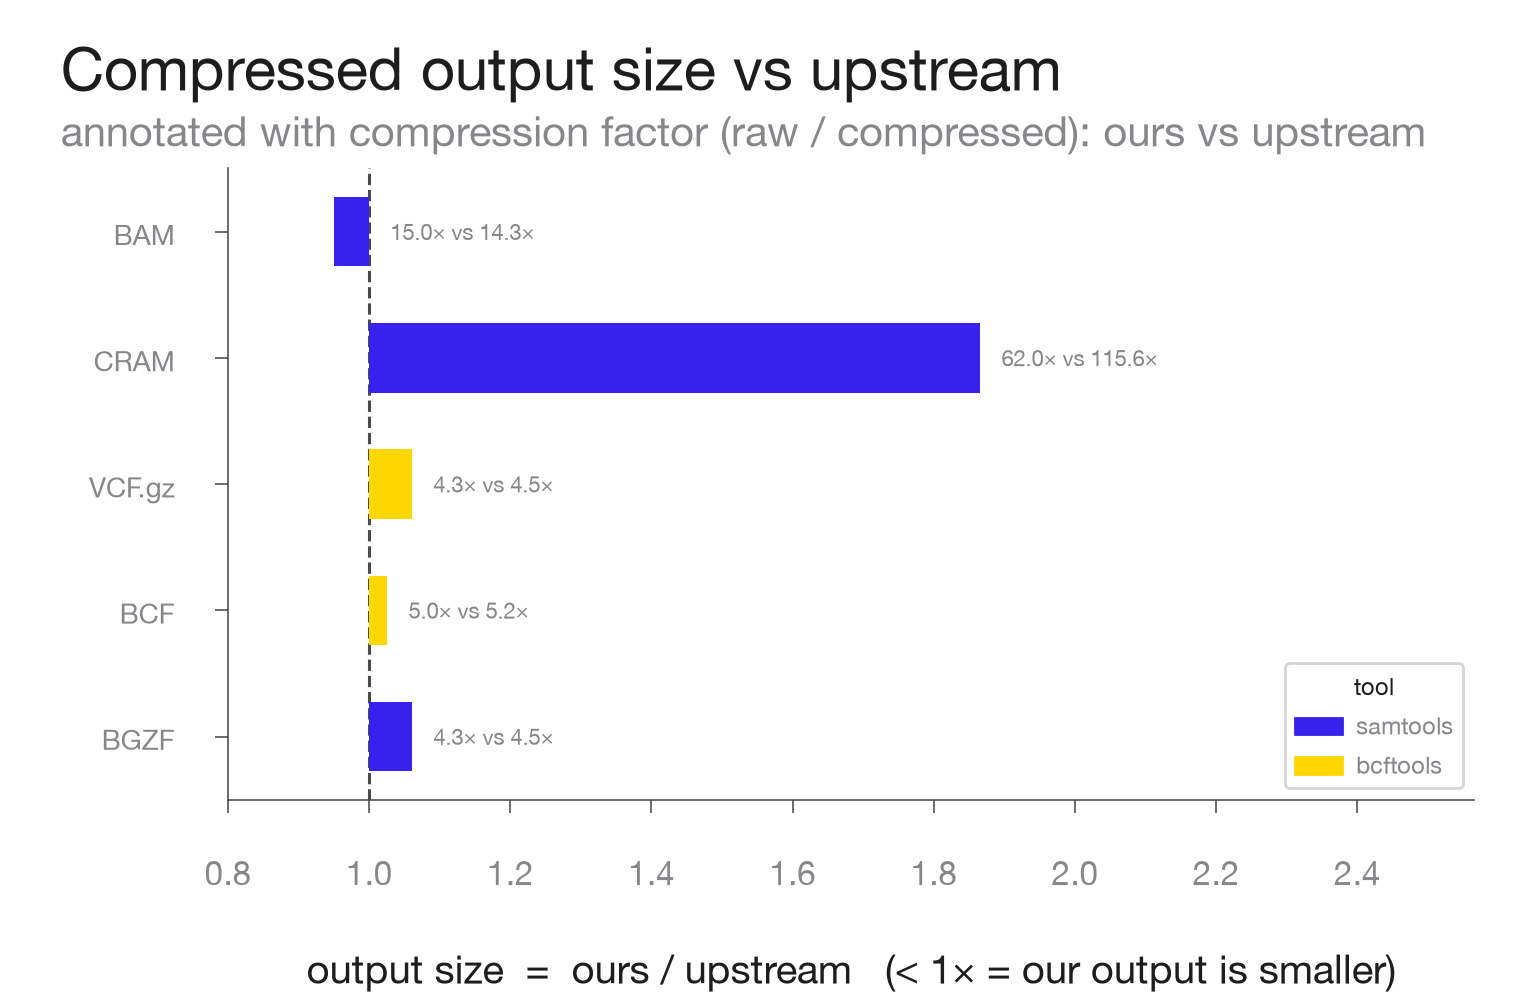
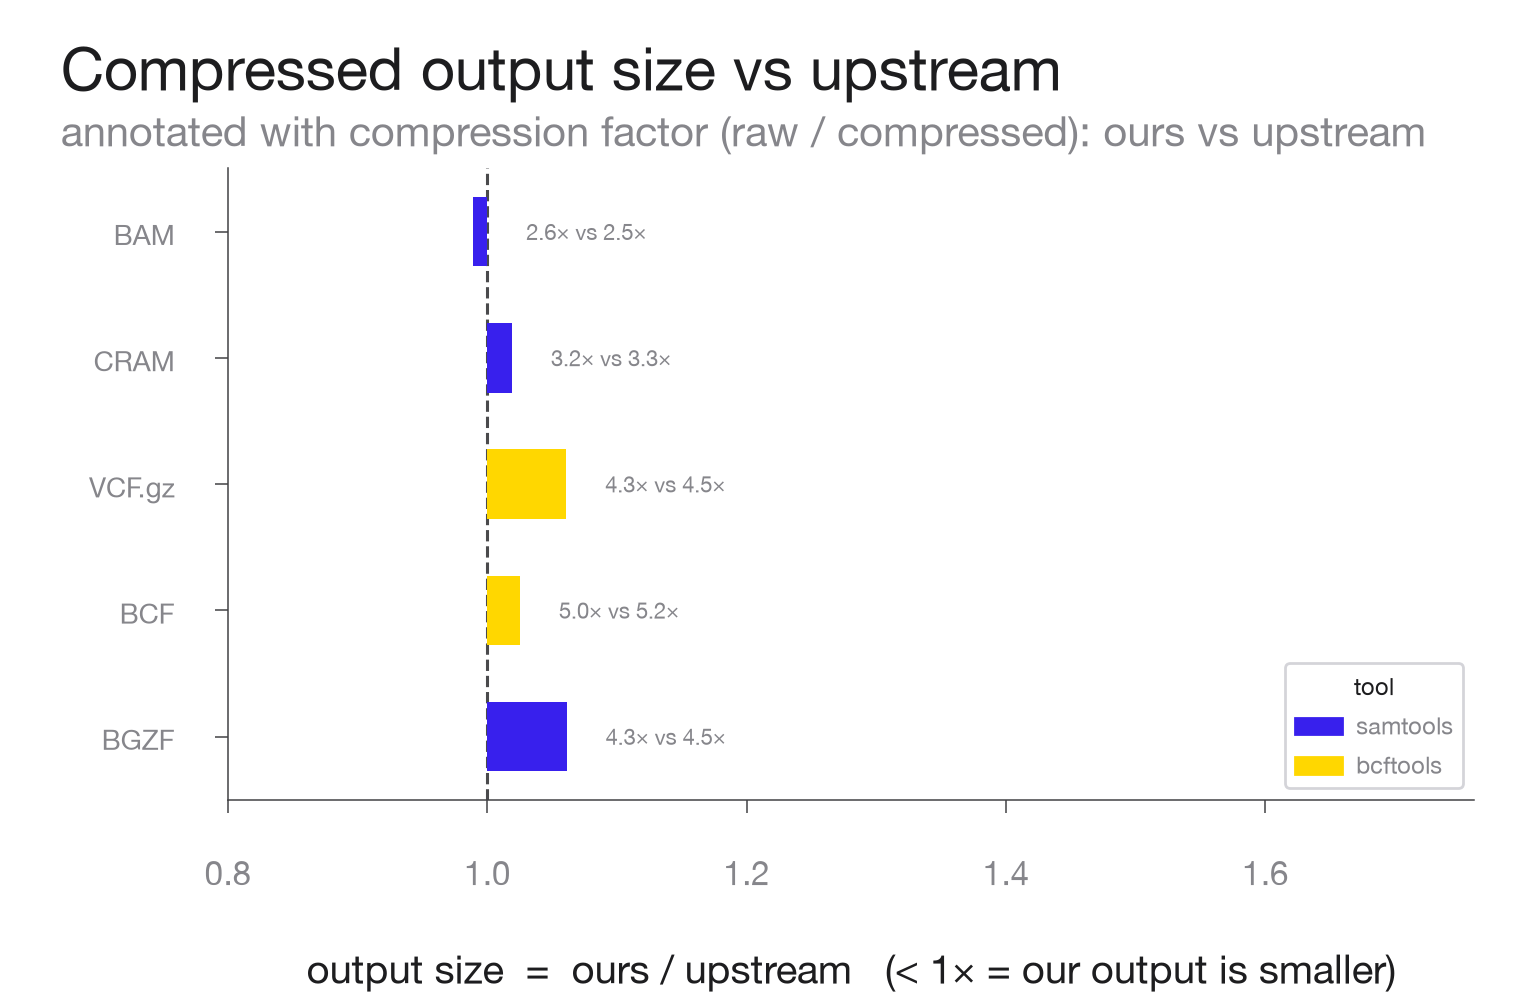
cram: offer rANS to the v3.0 block chooser (1.87x -> 1.02x vs upstream)
chooseBlockCompression only tried raw/gzip for v3.0, never rANS 4x8 — the
entropy coder upstream relies on for CRAM (gzip loses badly to rANS on quality
scores and base calls). Offer the version-appropriate rANS codec (4x8 for v3.0,
4x16 for v3.1) at order 0 (trusted, corpus-validated) and order 1 (round-trip
verified, since order-1 does not round-trip every degenerate block) and keep the
smallest.

On the synthetic medium fixture our `view -C` output went from 1.87x -> 1.019x
upstream; it decodes byte-identically to upstream's own CRAM, and encode stayed
faster (0.15s vs 0.25s). CRAM round-trip + parity suites pass. Refresh
fig_compression (all formats now within ~6%; CRAM no longer the outlier).

diff --git a/pkg/htsgo/cram/writer.go b/pkg/htsgo/cram/writer.go
@@ -833,14 +833,28 @@ func chooseBlockCompression(version Version, payload []byte) (CompressionMethod,
 	if gz := gzipCompress(payload); len(gz) < len(stored) {
 		method, stored = CompGzip, gz
 	}
-	if version == VersionV31 {
-		// rANS 4x16 is a v3.1-only codec; never offer it for v3.0. Order 0
-		// is used — correctness and round-trip matter here, not ratio, and
-		// the order-0 model round-trips every input including the empty
-		// one.
-		if r, err := codec.RANS4x16Encode(payload, 0); err == nil && len(r) < len(stored) {
-			method, stored = CompRANS4x16, r
+	// rANS: the entropy coder upstream leans on for CRAM. v3.0 uses rANS 4x8,
+	// v3.1 the newer rANS 4x16; offer the version-appropriate codec at both
+	// orders and keep whichever is smallest. order 0 (frequency model) is
+	// trusted — it is corpus-validated and round-trips every input including the
+	// empty/degenerate blocks. order 1 (context model) usually wins big on
+	// quality scores and base calls, but it does NOT round-trip every degenerate
+	// input, so each order-1 candidate is decoded back and only kept if it
+	// reproduces the payload exactly.
+	tryRANS := func(m CompressionMethod, enc func([]byte, int) ([]byte, error), dec func([]byte) ([]byte, error)) {
+		if r, err := enc(payload, 0); err == nil && len(r) < len(stored) {
+			method, stored = m, r
 		}
+		if r, err := enc(payload, 1); err == nil && len(r) < len(stored) {
+			if back, derr := dec(r); derr == nil && bytes.Equal(back, payload) {
+				method, stored = m, r
+			}
+		}
+	}
+	if version == VersionV31 {
+		tryRANS(CompRANS4x16, codec.RANS4x16Encode, codec.RANS4x16Decode)
+	} else {
+		tryRANS(CompRANS4x8, codec.RANS4x8Encode, codec.RANS4x8Decode)
 	}
 	return method, stored
 }

diff --git a/docs/manuscript/results/figures/README.md b/docs/manuscript/results/figures/README.md
@@ -26,7 +26,7 @@ ratio (claim C3, `pipeline/stats`).
 | `fig_scaling` | Per-tier **dumbbell/arrow** plot (one facet per tier): for each subcommand an open marker at upstream's median wall time with an **arrow to ours** (filled, tool-coloured) and **IQR error bars**. Tiers are discrete, so nothing is connected across them; arrow pointing left = faster. |
 | `fig_scatter` | Ours vs upstream wall time (log-log) with the `y=x` parity line; points below the line are faster, above are slower; colour = tool. |
 | `fig_memory` | Per-**subcommand** peak-RSS ratio (ours / upstream), same layout as `fig_speedup`. **< 1× = leaner than upstream.** The honest picture of the Go-vs-C memory trade: every cell uses *more* RAM (Go runtime + GC), from ~1.2× (`bcftools query`/`stats`) to ~13–14× on the streaming-histogram cells (`samtools depth`/`stats`, `bedtools genomecov`/`merge`). |
-| `fig_compression` | Compressed **output size** ours / upstream per format (BAM, CRAM, VCF.gz, BCF, BGZF), each annotated with the compression factor (raw / compressed) both sides achieve. **< 1× = our output is smaller.** `BAM` is slightly smaller than upstream (15.0× vs 14.3×); the deflate-backed `VCF.gz`/`BCF`/`BGZF` are ~3–6% larger (klauspost vs libdeflate); **`CRAM` is the outlier — ~1.87× larger (62× vs 116×)**, a real codec gap (see the roadmap). Measured at one representative scale (size ratios are ~scale-independent). |
+| `fig_compression` | Compressed **output size** ours / upstream per format (BAM, CRAM, VCF.gz, BCF, BGZF), each annotated with the compression factor (raw / compressed) both sides achieve. **< 1× = our output is smaller.** All formats are within ~6% of upstream: `BAM` is slightly **smaller** (0.99×); `CRAM` is 1.02× (it was ~1.87× until the writer started offering rANS 4x8 — see the roadmap); the deflate-backed `VCF.gz`/`BCF`/`BGZF` are ~3–6% larger (klauspost vs libdeflate, a deliberate speed/ratio trade). Measured at one representative scale (size ratios are ~scale-independent). |
 
 Each figure is emitted as both `.pdf` (vector, for the manuscript) and `.png`
 (preview). Companion tables: [`../performance_tables.md`](../performance_tables.md)

diff --git a/docs/PARITY_ROADMAP.md b/docs/PARITY_ROADMAP.md
@@ -270,13 +270,17 @@ cells hold O(file) state where upstream streams. These would OOM at WGS scale:
   **2.7 GB → 128 MB** (and 39× → ~6.5× upstream on the 24-sample large fixture,
   492 → ~80 MB). Byte-identical, and a colocated-`sites.txt` ordering parity bug
   was fixed alongside (commit `a669525`).
-- **CRAM compression ~1.87× larger than upstream** (NEW, from `fig_compression`).
-  On a synthetic medium fixture (ref-aligned reads) our `samtools view -C` output
-  is ~1.87× upstream's (62× vs 116× raw→CRAM); BAM is actually *smaller* than
-  upstream (15.0× vs 14.3×) and the deflate formats (VCF.gz/BCF/BGZF) are within
-  ~6% (klauspost vs libdeflate). CRAM is the outlier — likely better
-  quality-score / codec selection upstream. Output is valid CRAM (decode is
-  byte-validated); this is compression *efficiency*, not correctness. Tracked.
+- **CRAM compression ~1.87× larger — FIXED** (NEW). The v3.0 block-compression
+  chooser only tried raw/gzip; it never offered **rANS 4x8**, the entropy coder
+  upstream leans on for CRAM (gzip loses badly to rANS on quality scores and base
+  calls). `chooseBlockCompression` now offers the version-appropriate rANS codec
+  (4x8 for v3.0, 4x16 for v3.1) at order 0 (trusted) and order 1 (round-trip
+  verified, since order-1 doesn't round-trip every degenerate block) and keeps
+  the smallest. On the synthetic medium fixture our `view -C` output went from
+  **1.87× → 1.019×** upstream (within 2%), decodes byte-identically to upstream's
+  own CRAM, and encode stayed *faster* (0.15 s vs 0.25 s). The deflate formats
+  (VCF.gz/BCF/BGZF) remain ~6% larger (klauspost vs libdeflate — a deliberate
+  speed/ratio trade, see CLAUDE.md); BAM is already smaller than upstream.
 - **`bcftools isec` "15× wall" was an artifact — FIXED** (commit `ff46358`).
   `isec -p` writes its projection VCFs + `sites.txt` to disk; the large-tier
   bench ran with `TMPDIR` on the slow Docker bind mount, and our plain-VCF writer
